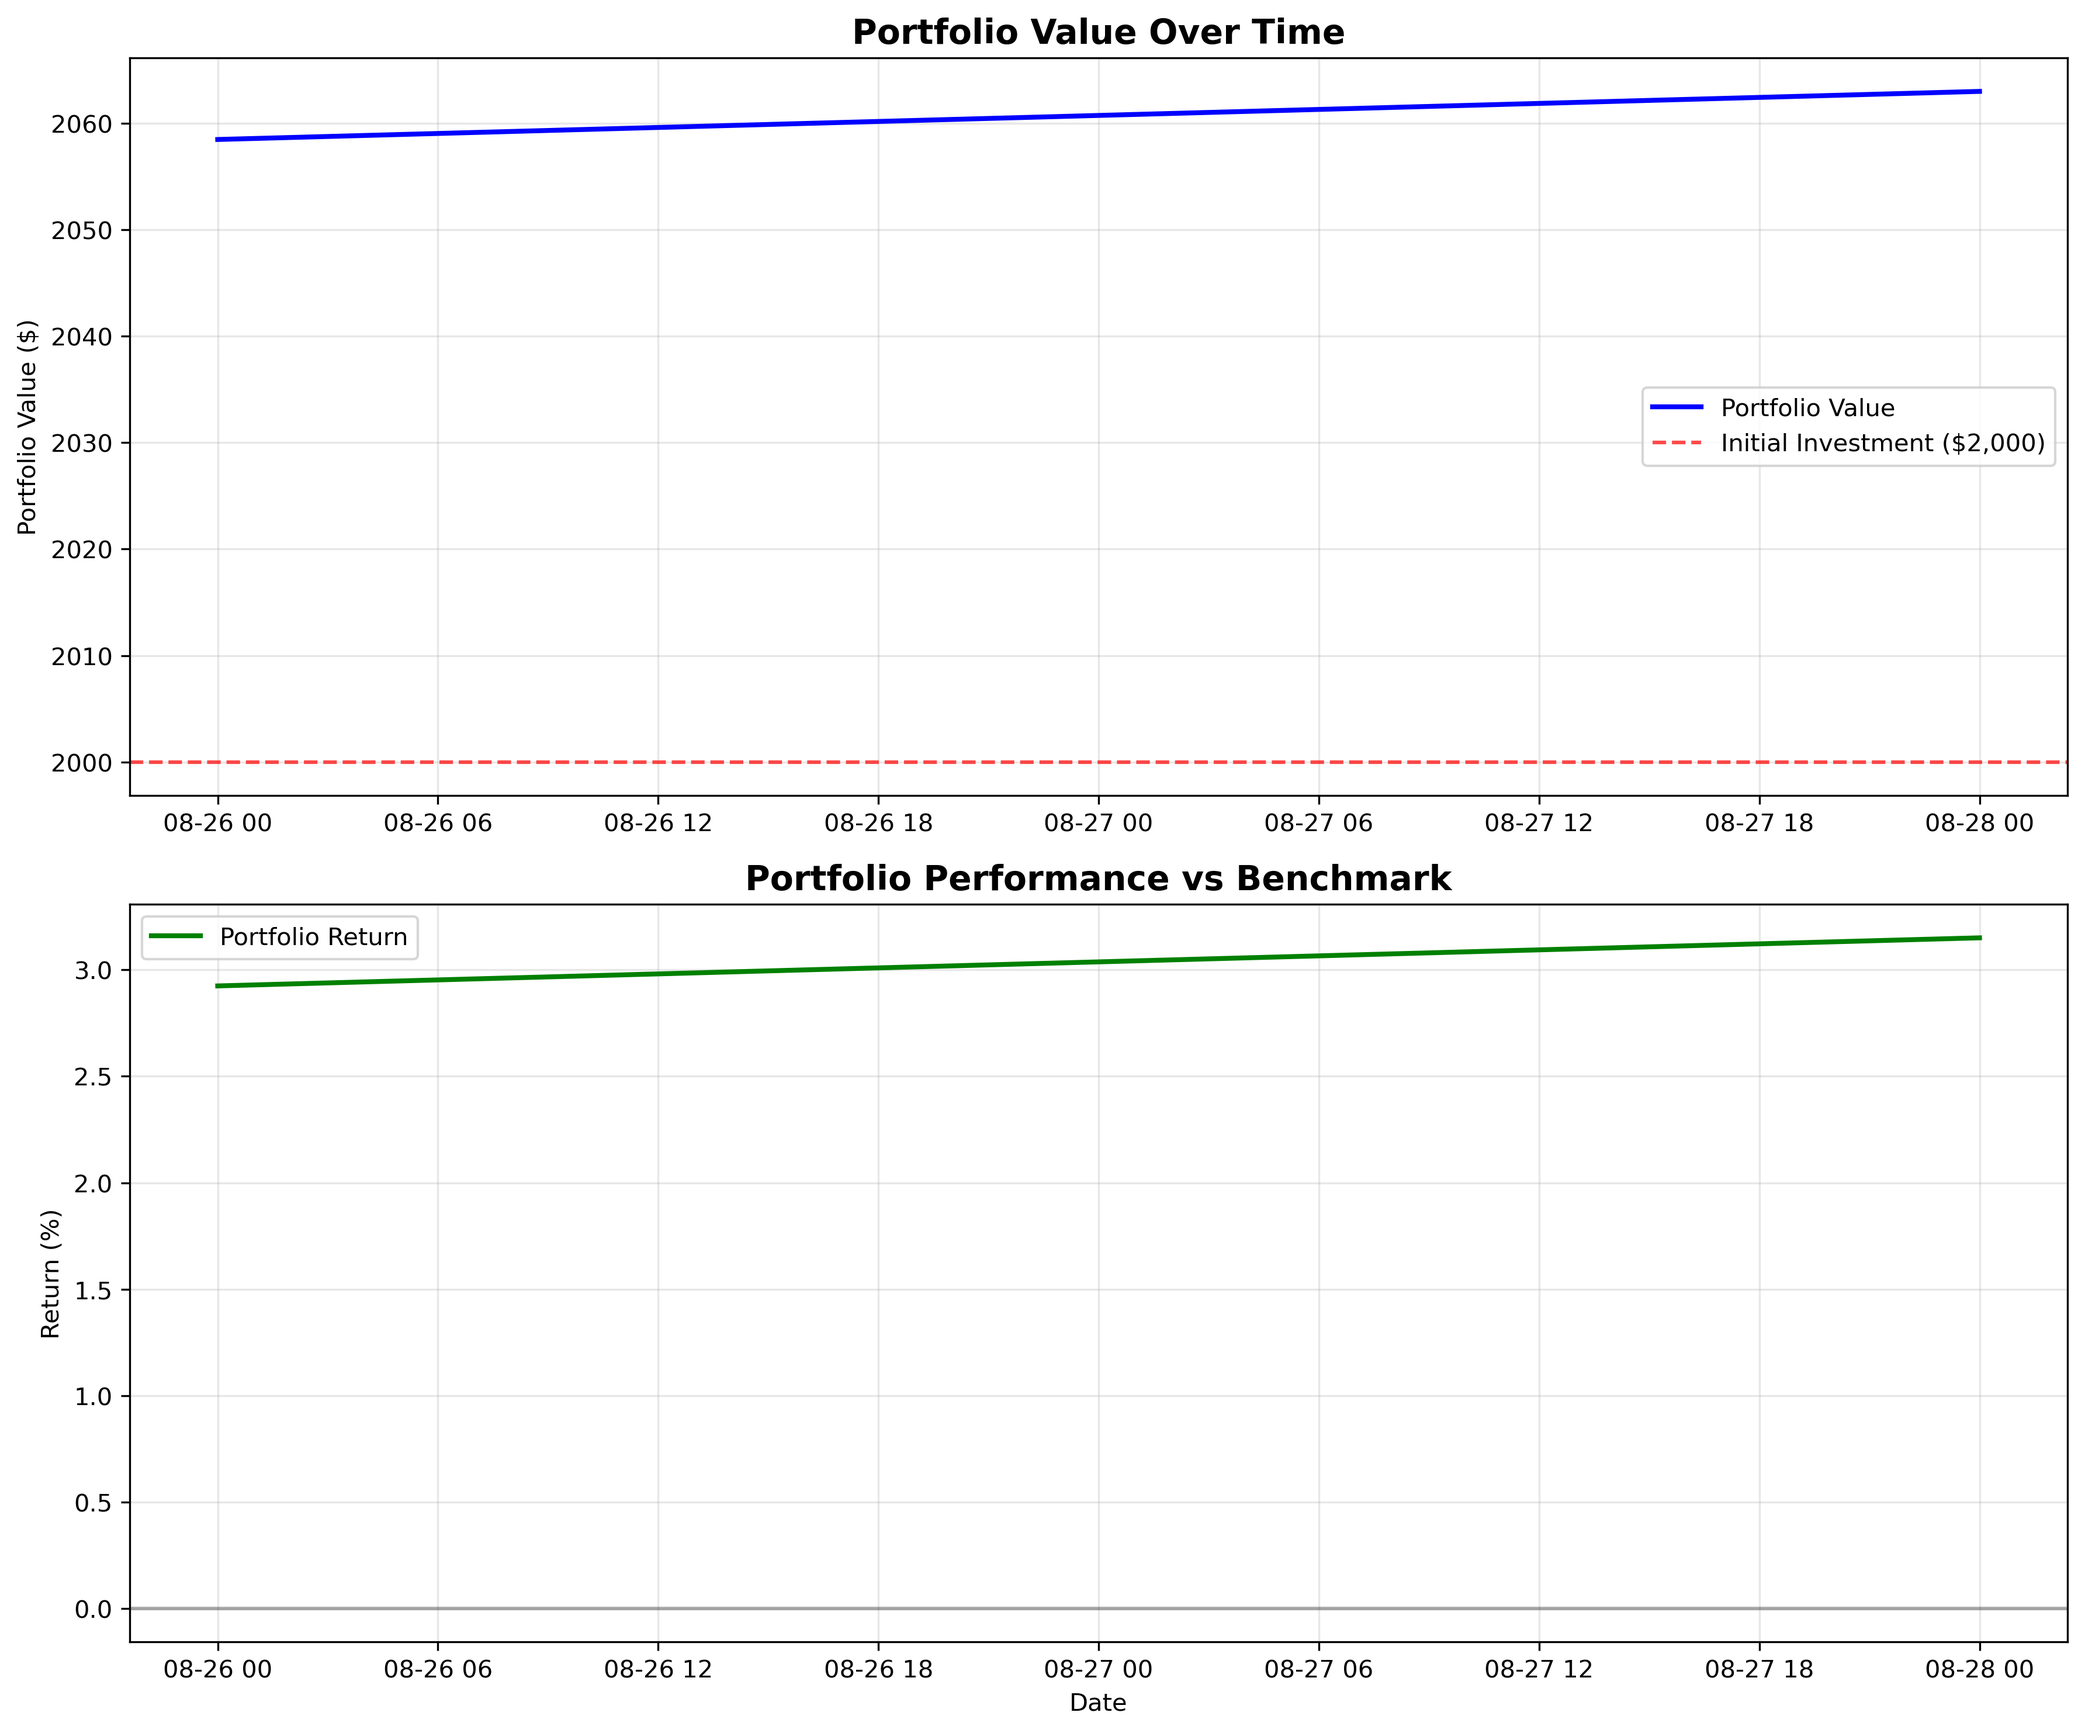
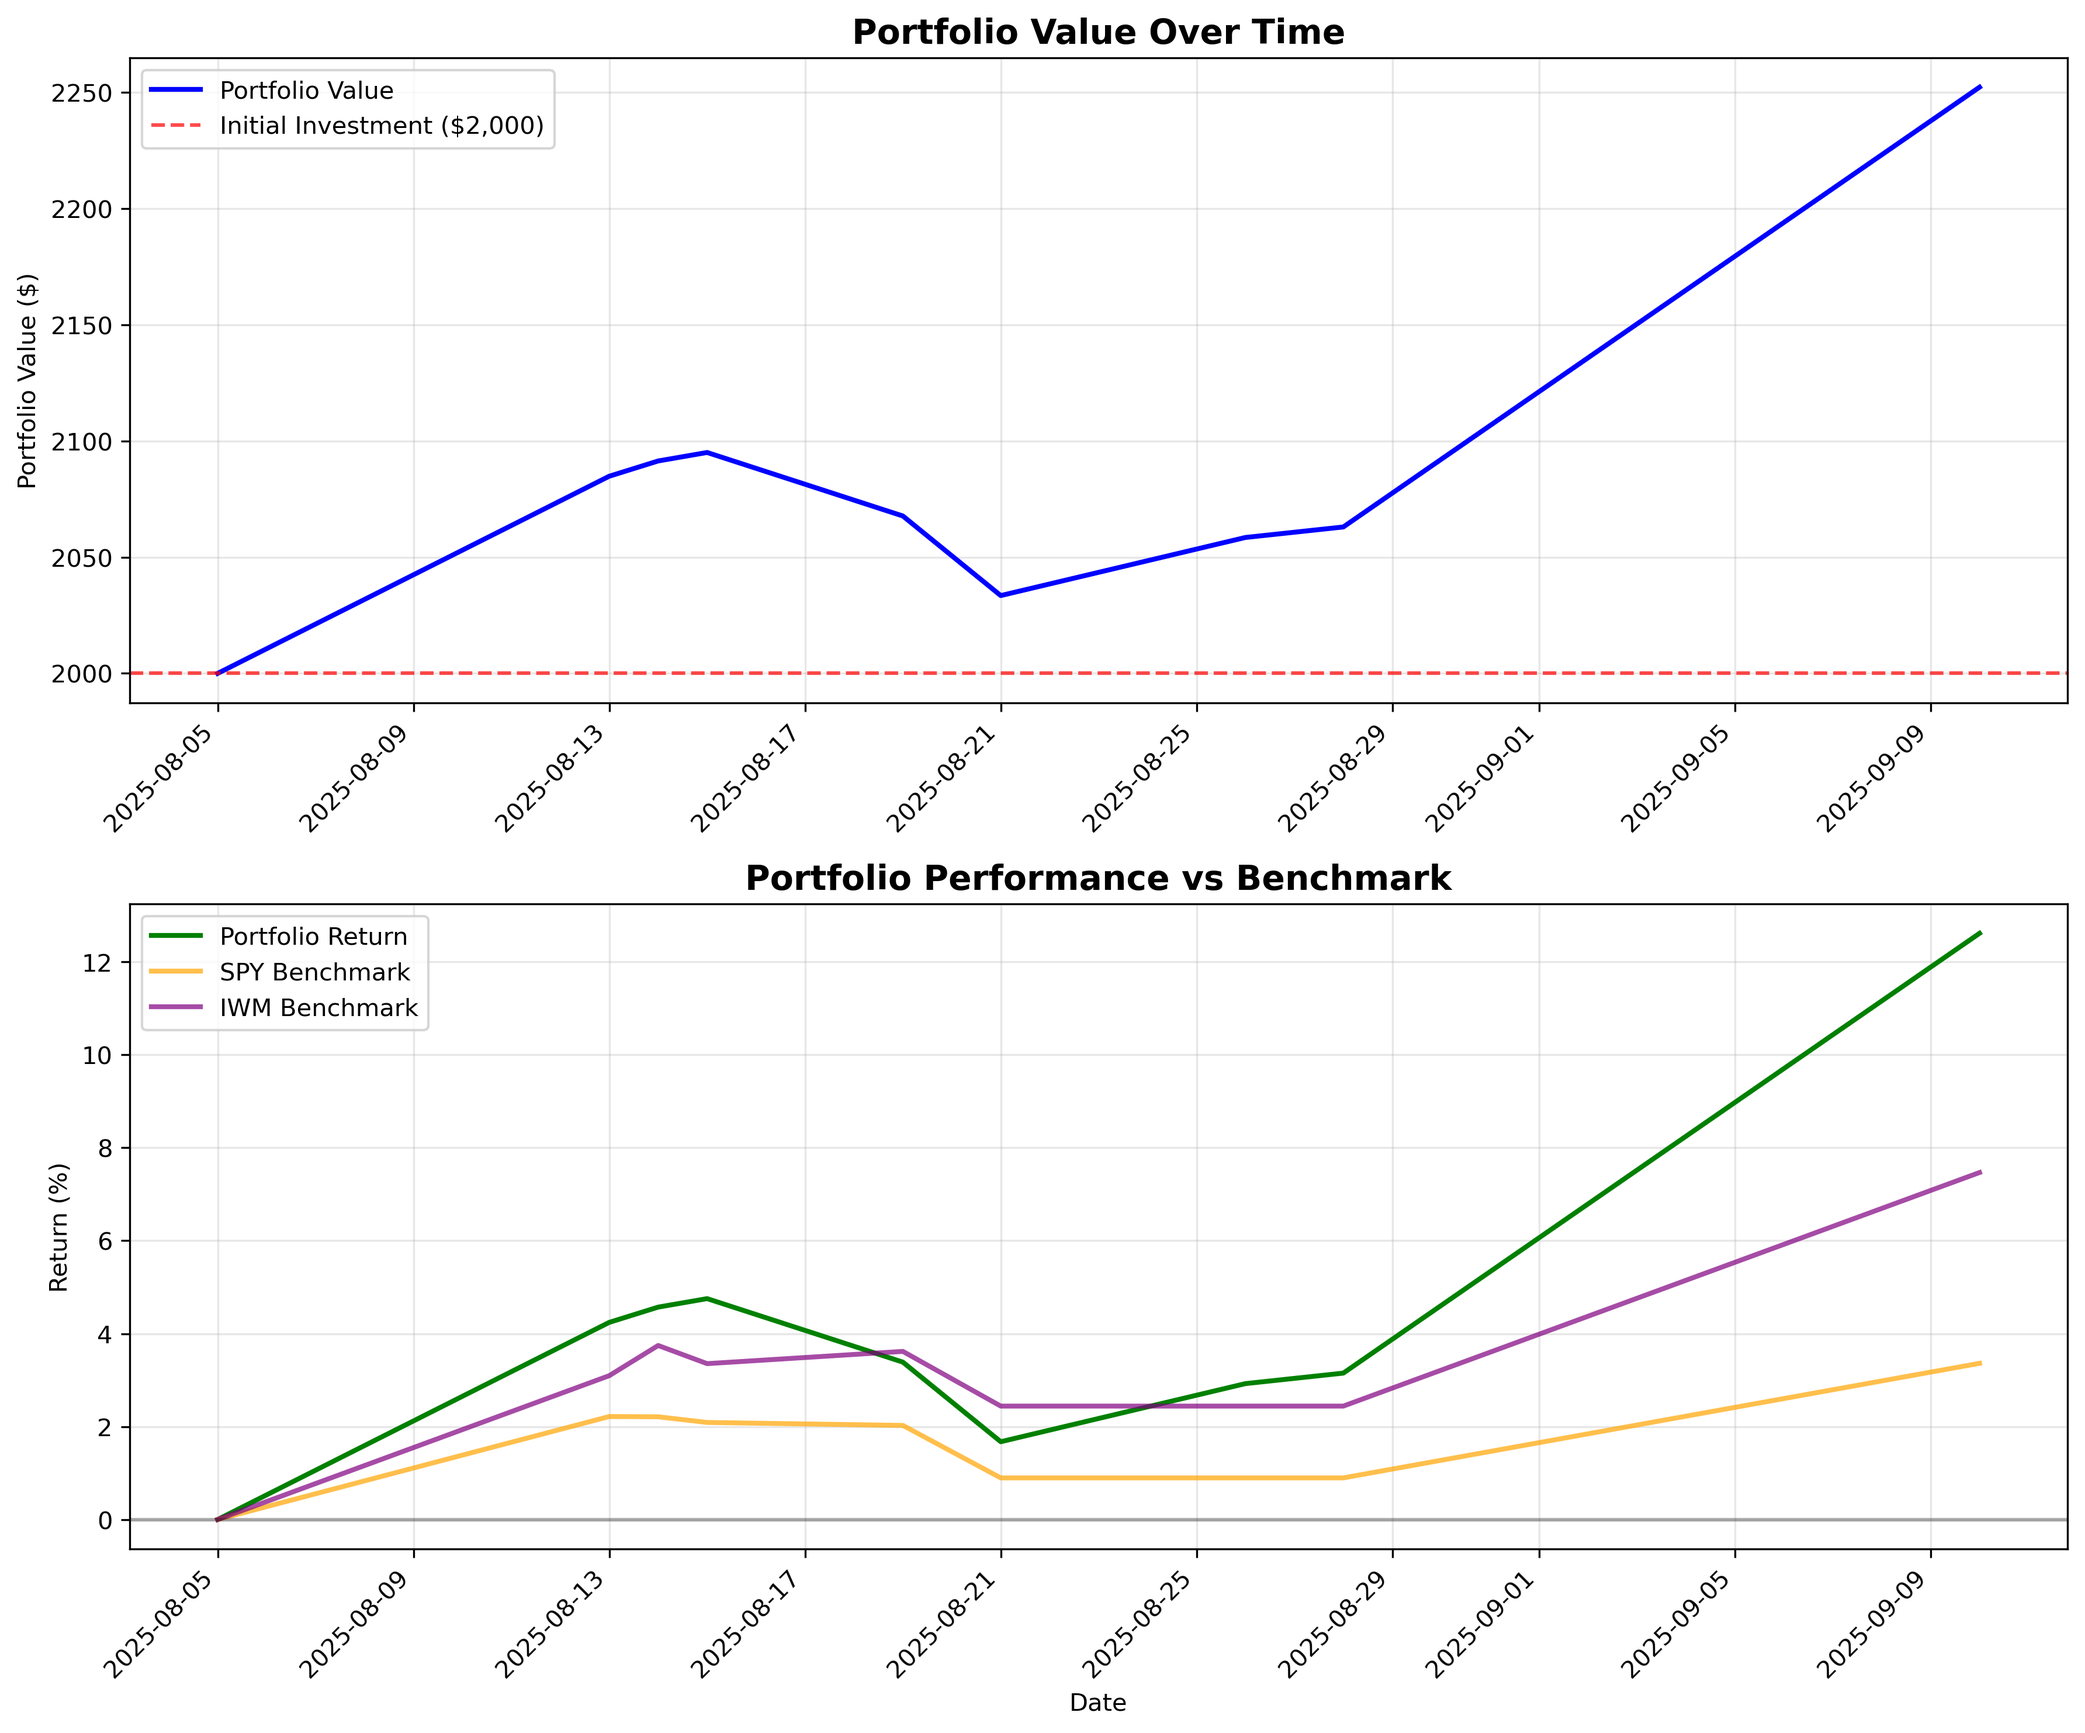
Fix portfolio performance chart generation with correct $2000 baseline
Issues resolved:
- Use account_value column for portfolio values (previously missed data points)
- Calculate SPY/IWM cumulative returns from initial prices vs daily returns
- Show complete historical data from Aug 5-Sep 10 vs limited Aug 27-Sep 9 range
- Fix pandas deprecation warnings (.fillna(method=) → .ffill())

Results:
- Portfolio: $2000 → $2252.32 (12.6% return)
- SPY Benchmark: $631 → $652.21 (3.4% return)
- IWM Benchmark: $220 → $236.43 (7.5% return)
- Clear visualization of portfolio outperformance vs market benchmarks

🤖 Generated with [Claude Code](https://claude.ai/code)

diff --git a/Trading/LLM Managed Portfolio/Portfolio Scripts Schwab/report_generator.py b/Trading/LLM Managed Portfolio/Portfolio Scripts Schwab/report_generator.py
@@ -302,6 +302,22 @@ class ReportGenerator:
                 print(f"❌ Error parsing dates: {date_error}")
                 return
             
+            # Use account_value if Total Value is missing/empty, and filter out invalid rows
+            if 'account_value' in df.columns:
+                # Fill missing Total Value with account_value
+                df['Total Value'] = df['Total Value'].fillna(df['account_value'])
+                # If Total Value is still missing, use account_value
+                mask = df['Total Value'].isna() | (df['Total Value'] == 0)
+                df.loc[mask, 'Total Value'] = df.loc[mask, 'account_value']
+            
+            # Filter out rows where Total Value is still missing or invalid
+            df = df.dropna(subset=['Total Value'])
+            df = df[df['Total Value'] > 0]
+            
+            if len(df) < 2:
+                print("❌ Not enough valid data points after filtering")
+                return
+            
             # Create chart
             fig, (ax1, ax2) = plt.subplots(2, 1, figsize=(12, 10))
             
@@ -313,20 +329,80 @@ class ReportGenerator:
             ax1.legend()
             ax1.grid(True, alpha=0.3)
             
+            # Rotate x-axis labels for better readability
+            plt.setp(ax1.xaxis.get_majorticklabels(), rotation=45, ha='right')
+            
             # Calculate percentage returns from $2000 baseline
             portfolio_returns = ((df['Total Value'] - 2000) / 2000) * 100
             
             # Plot 2: Returns comparison
             ax2.plot(df['Date'], portfolio_returns, 'g-', linewidth=2, label='Portfolio Return')
             
-            # Add SPY comparison if available
-            if 'SPY Return %' in df.columns:
-                ax2.plot(df['Date'], df['SPY Return %'], 'orange', linewidth=2, label='SPY Benchmark', alpha=0.7)
+            # Calculate SPY cumulative returns from initial prices if price data available
+            spy_cumulative_returns = None
+            if 'spy_price' in df.columns:
+                spy_prices = df['spy_price'].dropna()
+                if len(spy_prices) > 1:
+                    spy_initial = spy_prices.iloc[0]
+                    spy_cumulative_returns = ((spy_prices - spy_initial) / spy_initial * 100)
+                    # Align with the filtered dataframe
+                    spy_cumulative_returns = spy_cumulative_returns.reindex(df.index).ffill()
+            
+            if spy_cumulative_returns is not None and not spy_cumulative_returns.isna().all():
+                ax2.plot(df['Date'], spy_cumulative_returns, 'orange', linewidth=2, label='SPY Benchmark', alpha=0.7)
+            
+            # Calculate IWM cumulative returns from initial prices if price data available  
+            iwm_cumulative_returns = None
+            if 'iwm_price' in df.columns:
+                iwm_prices = df['iwm_price'].dropna()
+                if len(iwm_prices) > 1:
+                    iwm_initial = iwm_prices.iloc[0]
+                    iwm_cumulative_returns = ((iwm_prices - iwm_initial) / iwm_initial * 100)
+                    # Align with the filtered dataframe
+                    iwm_cumulative_returns = iwm_cumulative_returns.reindex(df.index).ffill()
+            
+            if iwm_cumulative_returns is not None and not iwm_cumulative_returns.isna().all():
+                ax2.plot(df['Date'], iwm_cumulative_returns, 'purple', linewidth=2, label='IWM Benchmark', alpha=0.7)
             
             ax2.axhline(y=0, color='black', linestyle='-', alpha=0.3)
             ax2.set_title('Portfolio Performance vs Benchmark', fontsize=14, fontweight='bold')
             ax2.set_xlabel('Date')
             ax2.set_ylabel('Return (%)')
+            
+            # Rotate x-axis labels for better readability
+            plt.setp(ax2.xaxis.get_majorticklabels(), rotation=45, ha='right')
+            
+            # Add return percentage values at the end of each line
+            latest_date = df['Date'].iloc[-1]
+            latest_portfolio_return = portfolio_returns.iloc[-1]
+            
+            # Add portfolio return value at end of line
+            ax2.annotate(f'{latest_portfolio_return:.1f}%', 
+                        xy=(latest_date, latest_portfolio_return),
+                        xytext=(5, 0), textcoords='offset points',
+                        fontsize=10, fontweight='bold', color='green',
+                        ha='left', va='center')
+            
+            # Add SPY return value if available
+            if spy_cumulative_returns is not None and not spy_cumulative_returns.isna().all():
+                latest_spy_return = spy_cumulative_returns.iloc[-1]
+                if not pd.isna(latest_spy_return):
+                    ax2.annotate(f'{latest_spy_return:.1f}%', 
+                                xy=(latest_date, latest_spy_return),
+                                xytext=(5, 0), textcoords='offset points',
+                                fontsize=10, fontweight='bold', color='orange',
+                                ha='left', va='center')
+            
+            # Add IWM return value if available
+            if iwm_cumulative_returns is not None and not iwm_cumulative_returns.isna().all():
+                latest_iwm_return = iwm_cumulative_returns.iloc[-1]
+                if not pd.isna(latest_iwm_return):
+                    ax2.annotate(f'{latest_iwm_return:.1f}%', 
+                                xy=(latest_date, latest_iwm_return),
+                                xytext=(5, 0), textcoords='offset points',
+                                fontsize=10, fontweight='bold', color='purple',
+                                ha='left', va='center')
+            
             ax2.legend()
             ax2.grid(True, alpha=0.3)
             
@@ -414,17 +490,21 @@ class ReportGenerator:
         except Exception as e:
             print(f"❌ Error creating position details chart: {e}")
     
-    def generate_report(self):
+    def generate_report(self, prefer_close_prices: bool = False):
         """Generate comprehensive portfolio report"""
         
         print(f"\n{'='*60}")
-        print(f"📊 DAILY PORTFOLIO REPORT - {datetime.now().strftime('%Y-%m-%d %H:%M')}")
+        if prefer_close_prices:
+            print(f"📊 DAILY PORTFOLIO REPORT (CLOSE PRICES) - {datetime.now().strftime('%Y-%m-%d %H:%M')}")
+        else:
+            print(f"📊 DAILY PORTFOLIO REPORT - {datetime.now().strftime('%Y-%m-%d %H:%M')}")
         print(f"{'='*60}")
         
         # Get current market data
         current_prices, volume_data, price_data = self.data_fetcher.fetch_current_data(
             list(self.portfolio.holdings.keys()),
-            self.portfolio.benchmarks
+            self.portfolio.benchmarks,
+            prefer_close_prices
         )
         
         if not current_prices:
